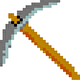
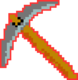
カーソル

diff --git a/DxLib_TGS2025/Src/Object/Cursor.cpp b/DxLib_TGS2025/Src/Object/Cursor.cpp
@@ -50,7 +50,7 @@ void CursorInit(void)
 	// カーソルがぞうの読み込み
 	cursor_image = LoadGraph("Resource/Images/cursol.png");
 	cursor_image1 = LoadGraph("Resource/Images/pickaxe1.png");
-	cursor_image2 = LoadGraph("Resource/Images/pickaxe2.png");
+	cursor_image2 = LoadGraph("Resource/Images/pickaxe2.0.png");
 	cursor_ax = LoadGraph("Resource/Images/ax.png");
 }
 
@@ -67,7 +67,7 @@ void CursorUpdate(void)
 		if (pickaxe_animation_count % 15 == 0)
 		{
 			pickaxe_animation_num++;
-			if (pickaxe_animation_num > 2)
+			if (pickaxe_animation_num > 1)
 			{
 				is_animating_pickaxe = false;
 				pickaxe_animation_num = 0;
@@ -82,7 +82,7 @@ void CursorUpdate(void)
 		if (ax_anim_count % 15 == 0)
 		{
 			ax_anim_num++;
-			if (ax_anim_num > 2)
+			if (ax_anim_num > 1)
 			{
 				is_animating_ax = false;
 				ax_anim_num = 0;
@@ -99,24 +99,38 @@ void CursorDraw(const Tool*tool)
 	DrawRotaGraphF(cursor.position.x, cursor.position.y,1.0,0.0 ,cursor_image, TRUE);// カーソルの描画
 	DrawFormatString(100, 100, GetColor(255, 255, 255), "%d %d ",numx,numy );
 	DrawFormatString(150, 150, GetColor(255, 255, 255), "%d %d ",cursor.array_x, cursor.array_y);
-	if (tool->item_number == ePickaxe && is_animating_pickaxe) 
+	if (tool->item_number == ePickaxe) 
 	{
-		if (pickaxe_animation_num == 0)
+		if (is_animating_pickaxe)
+		{
+			if (pickaxe_animation_num == 0)
+			{
+				DrawRotaGraphF(cursor.position.x, cursor.position.y - 40.0, 0.5, 0.0, cursor_image1, TRUE);
+			}
+			else if (pickaxe_animation_num == 1)
+			{
+				DrawRotaGraphF(cursor.position.x, cursor.position.y - 40.0, 0.5, 0.0, cursor_image2, TRUE);
+			}
+		}
+		else
 		{
 			DrawRotaGraphF(cursor.position.x, cursor.position.y - 40.0, 0.5, 0.0, cursor_image1, TRUE);
 		}
-		else if (pickaxe_animation_num == 1)
-		{
-			DrawRotaGraphF(cursor.position.x, cursor.position.y - 40.0, 0.5, 0.0, cursor_image2, TRUE);
-		}
 	}
-	else if (tool->item_number == eAx && is_animating_ax) 
+	else if (tool->item_number == eAx) 
 	{
-		if (ax_anim_num == 0)
+		if (is_animating_ax)
 		{
-			DrawRotaGraphF(cursor.position.x, cursor.position.y - 40.0, 0.5, 0.0, cursor_ax, TRUE);
+			if (ax_anim_num == 0)
+			{
+				DrawRotaGraphF(cursor.position.x, cursor.position.y - 40.0, 0.5, 0.0, cursor_ax, TRUE);
+			}
+			else if (ax_anim_num == 1)
+			{
+				DrawRotaGraphF(cursor.position.x, cursor.position.y - 40.0, 0.5, -90.0, cursor_ax, TRUE);
+			}
 		}
-		else if (ax_anim_num == 1)
+		else
 		{
 			DrawRotaGraphF(cursor.position.x, cursor.position.y - 40.0, 0.5, 0.0, cursor_ax, TRUE);
 		}
@@ -189,7 +203,7 @@ void CursolButtonMovement(const Tool* tool)
 		// もしツルハシなら
 		if (tool->item_number == ePickaxe)
 		{
-			if (pad_input->GetButtonInputState(XINPUT_BUTTON_A) == ePadInputState::ePress)
+			if (!is_animating_pickaxe && pad_input->GetButtonInputState(XINPUT_BUTTON_A) == ePadInputState::ePress)
 			{
 				// アニメーション開始
 				pickaxe_animation_num = 0;
@@ -200,7 +214,7 @@ void CursolButtonMovement(const Tool* tool)
 		// もし斧なら
 		if (tool->item_number == eAx)
 		{
-			if (pad_input->GetButtonInputState(XINPUT_BUTTON_A) == ePadInputState::ePress)
+			if (!is_animating_ax && pad_input->GetButtonInputState(XINPUT_BUTTON_A) == ePadInputState::ePress)
 			{
 				// アニメーション開始
 				ax_anim_num = 0;
